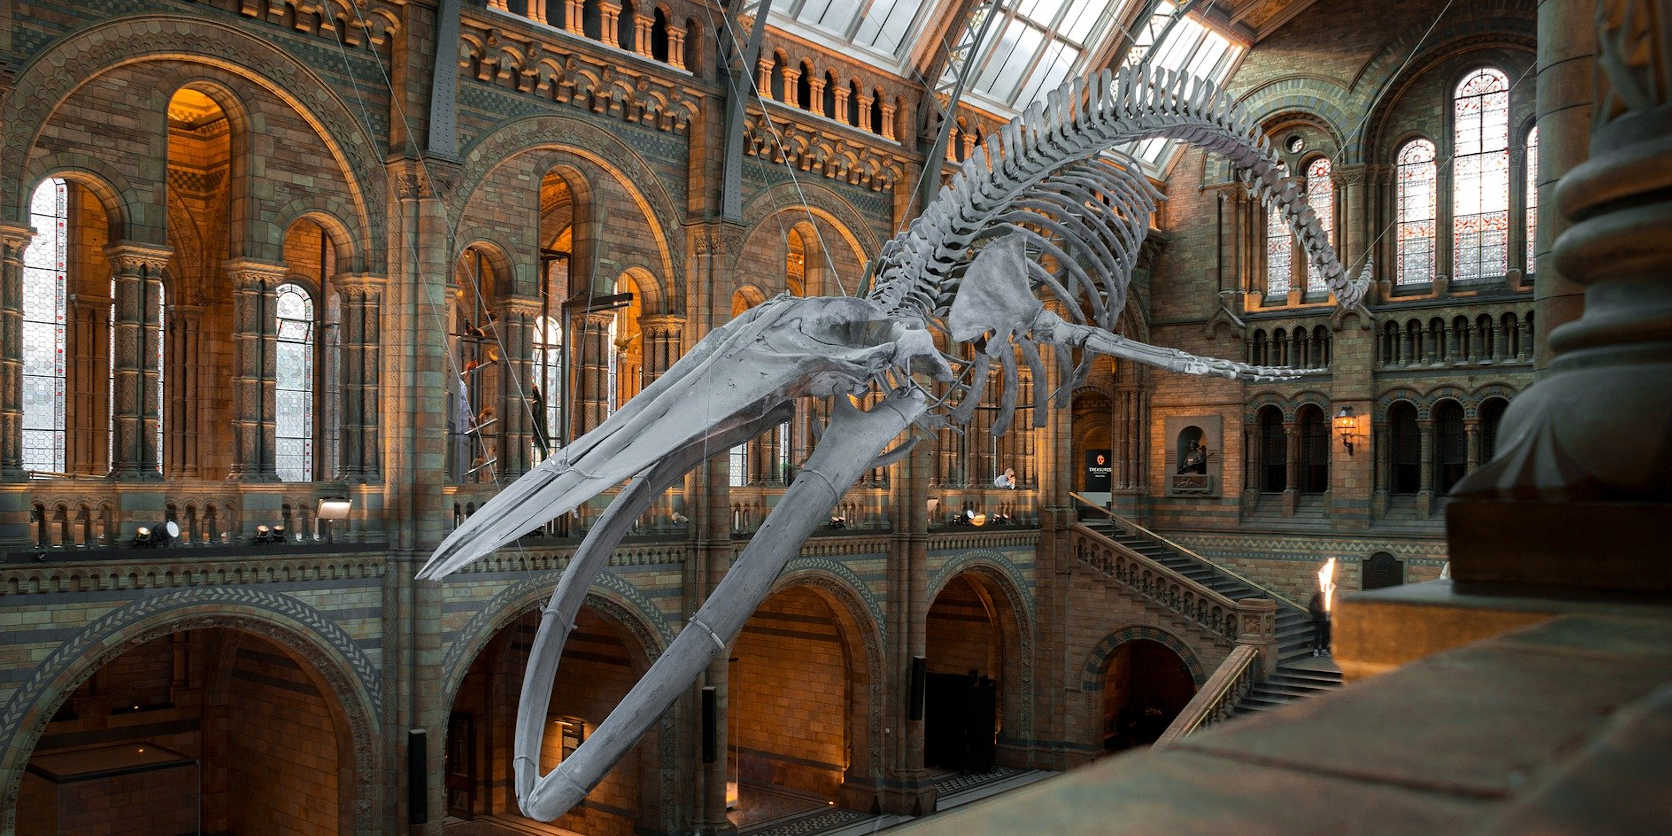
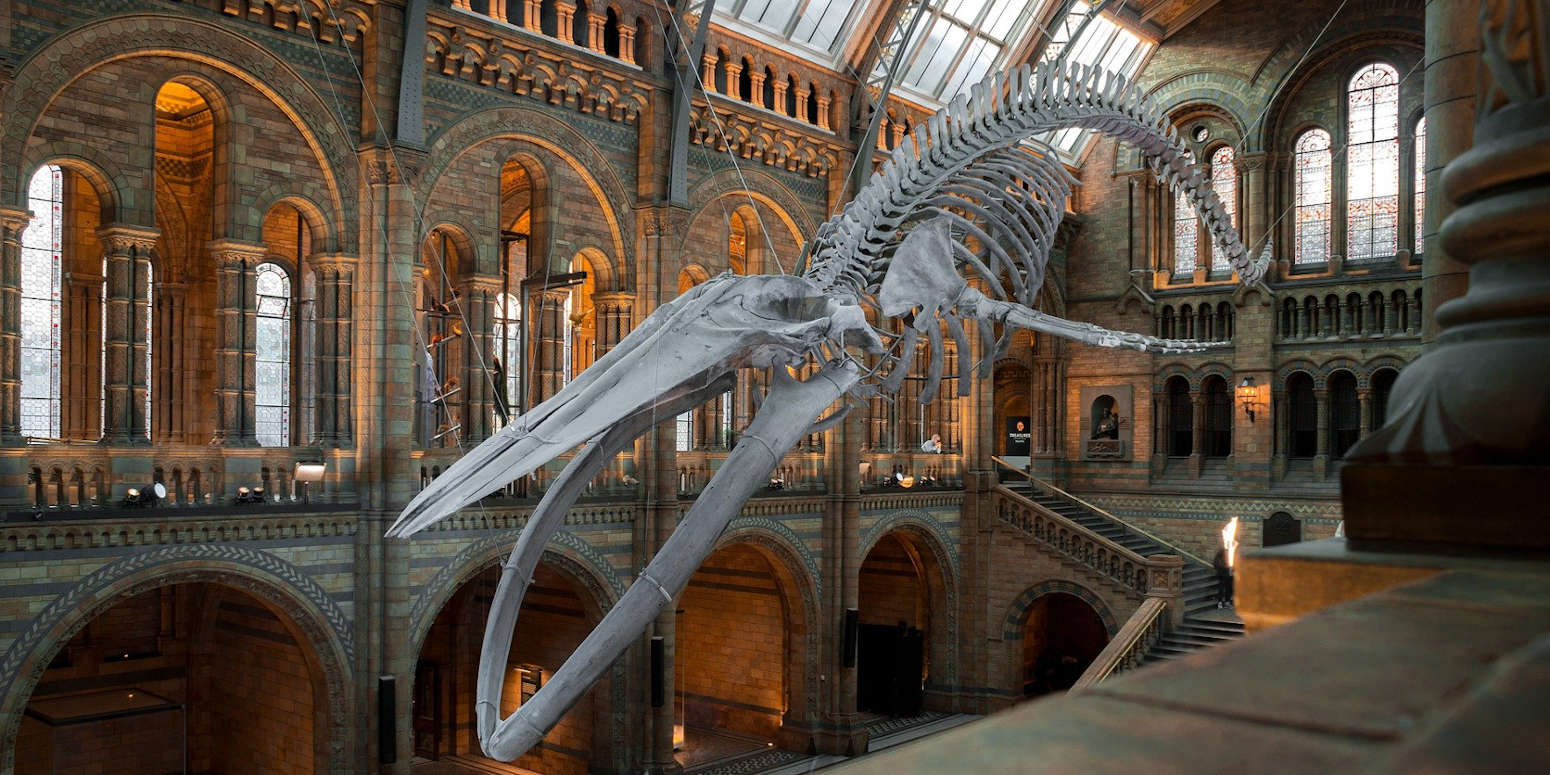
test picture front page
added test picture

Changed region(s): [[0.8671, 0.2787, 0.8981, 0.3097], [0.8671, 0.0929, 0.8981, 0.1239], [0.7742, 0.1858, 0.8052, 0.2168]]

diff --git a/index.html b/index.html
@@ -33,7 +33,7 @@
             <div class="hero-text">
             <h1>Community Science Museum</h1>
             </div>
-            <img src="/images/mammoth-1257288_1920.jpg" alt="Mammoth skeleton">
+            <img src="/images/frontpage-test.jpg" alt="Mammoth skeleton">
             <div class="sphere green hidden">
                 <p>Come join us at  the Community Science Museum where we’re commited to making science accessibile to all.
                     We have a wast amount of exhibits that are guaranteed to suit everyone.</p>
